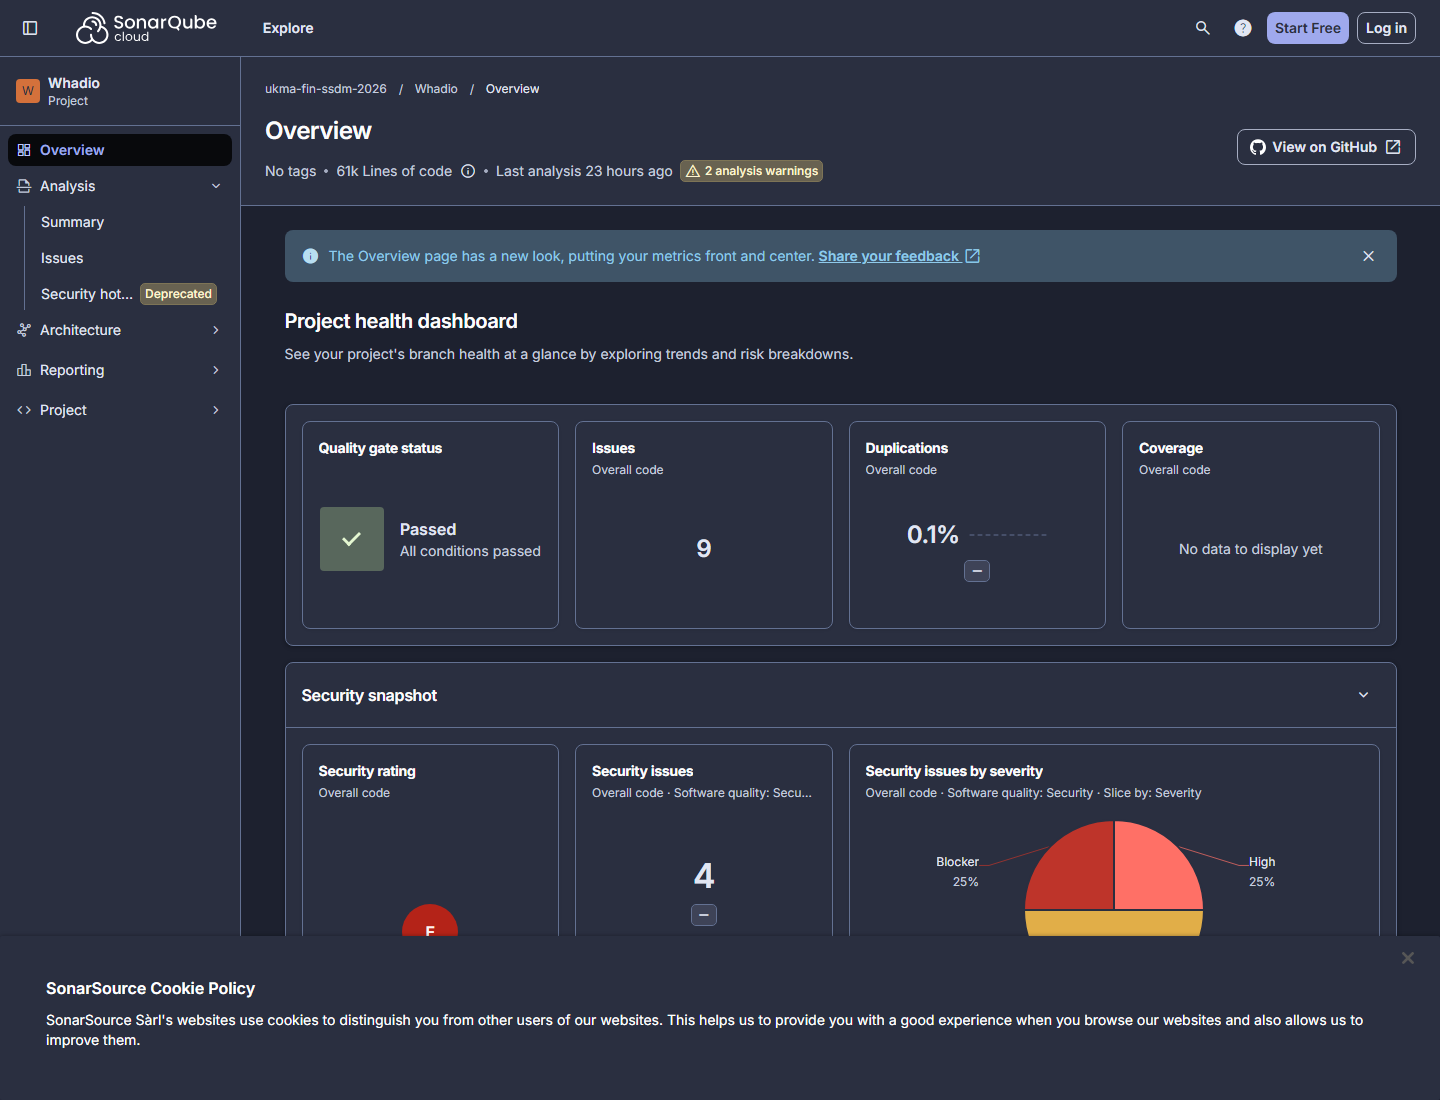
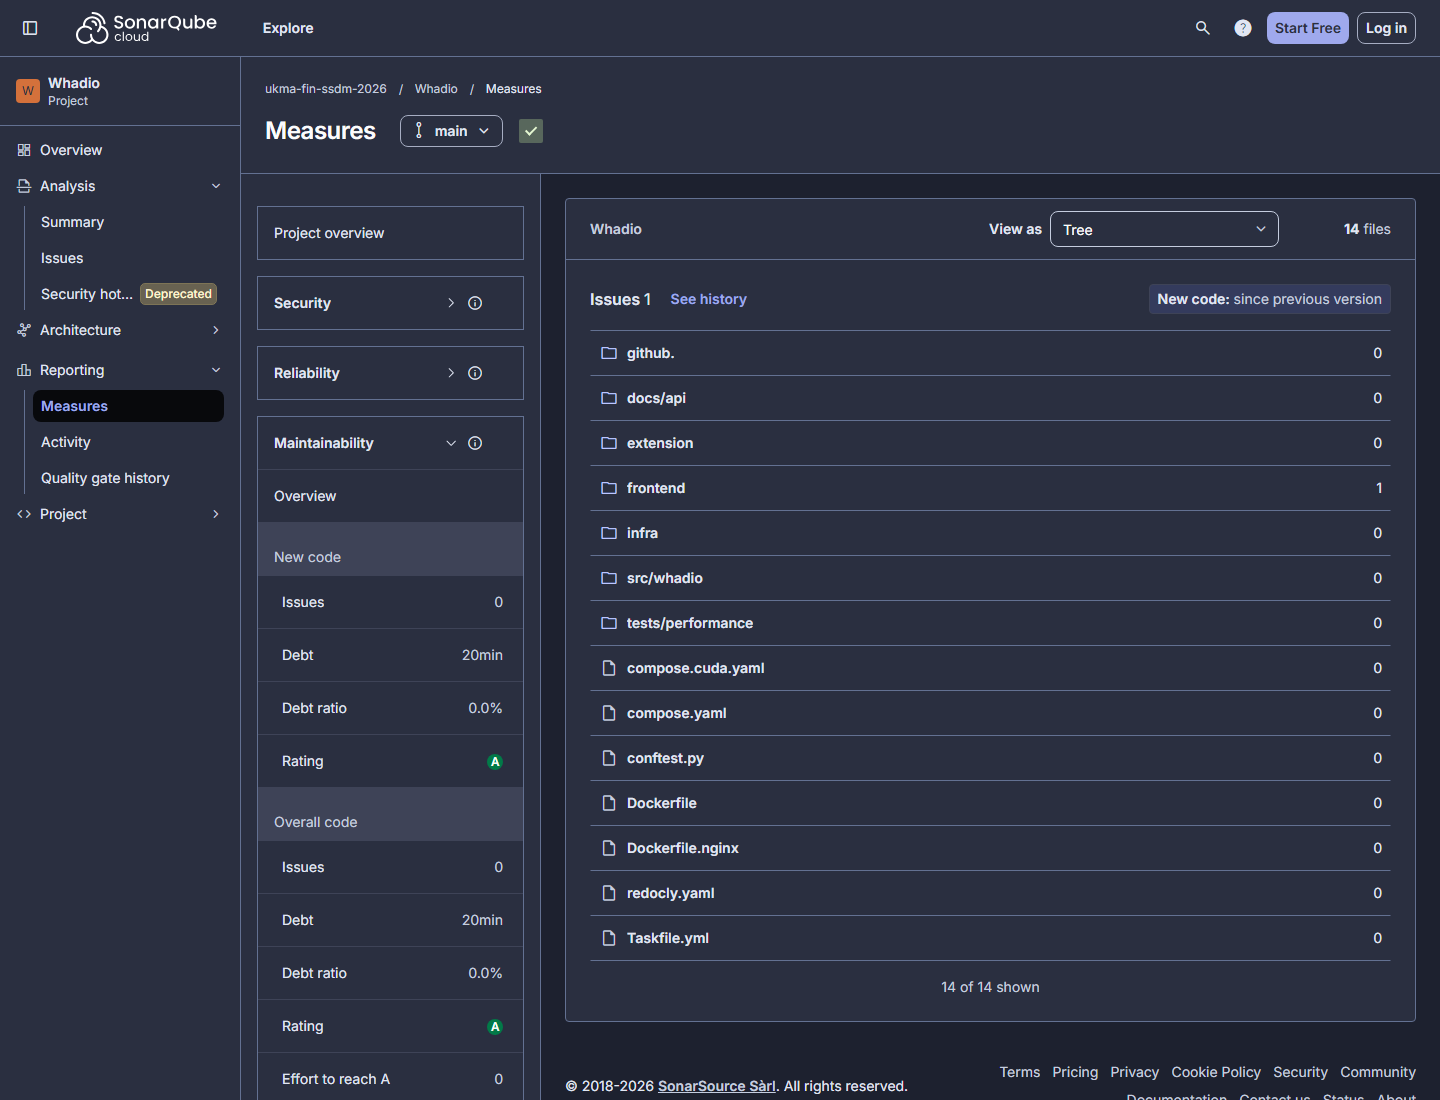
docs(#265): fix final review findings

diff --git a/docs/refactoring/sonarcloud-report.md b/docs/refactoring/sonarcloud-report.md
@@ -39,7 +39,7 @@ Four open security findings cause the rating:
 
 The remediation and false-positive review are tracked in [issue #167](https://github.com/ukma-fin-ssdm-2026/Whadio/issues/167).
 They are also connected to the [static-analysis findings](../code-quality/static-analysis.md) and
-the threat model's [R-11 STARTTLS control](../architecture/threat-model.md#risk-register).
+the threat model's [R-11 STARTTLS control](../architecture/threat-model.md#identified-risks).
 
 ### Why Reliability Rating remains E
 
@@ -54,6 +54,8 @@ therefore Reliability is recorded only as a reference metric for this refactorin
 ### Before: `main` at `bc3ec99`
 
 ![SonarQube Cloud dashboard before refactoring](sonarcloud-before.png)
+
+The baseline Measures view shows one maintainability issue in `frontend` and 20 minutes of debt.
 
 ### After: PR #267 analysis preview
 
